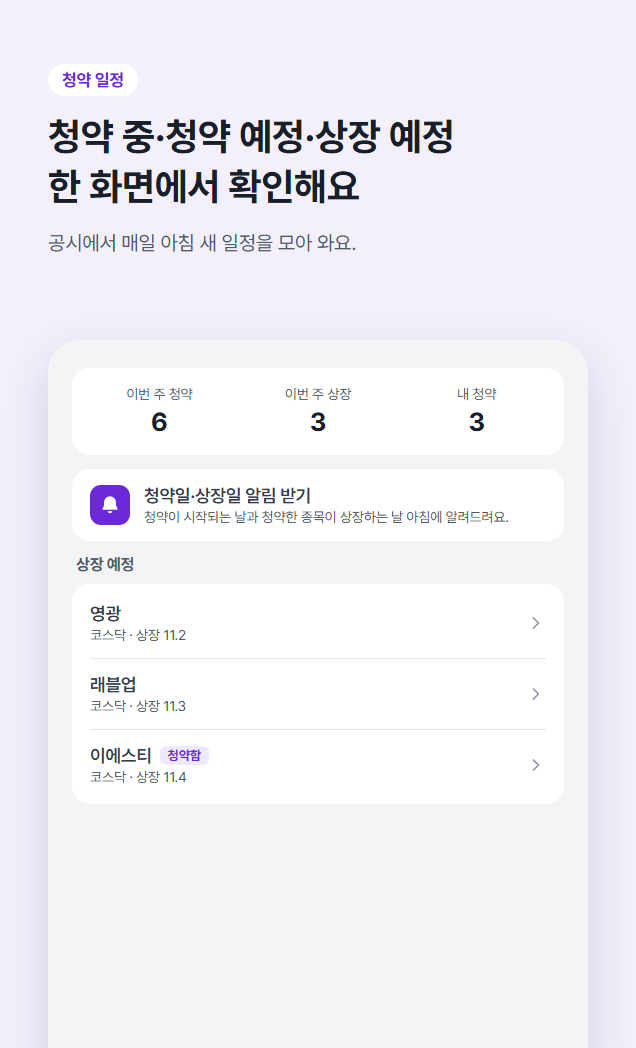
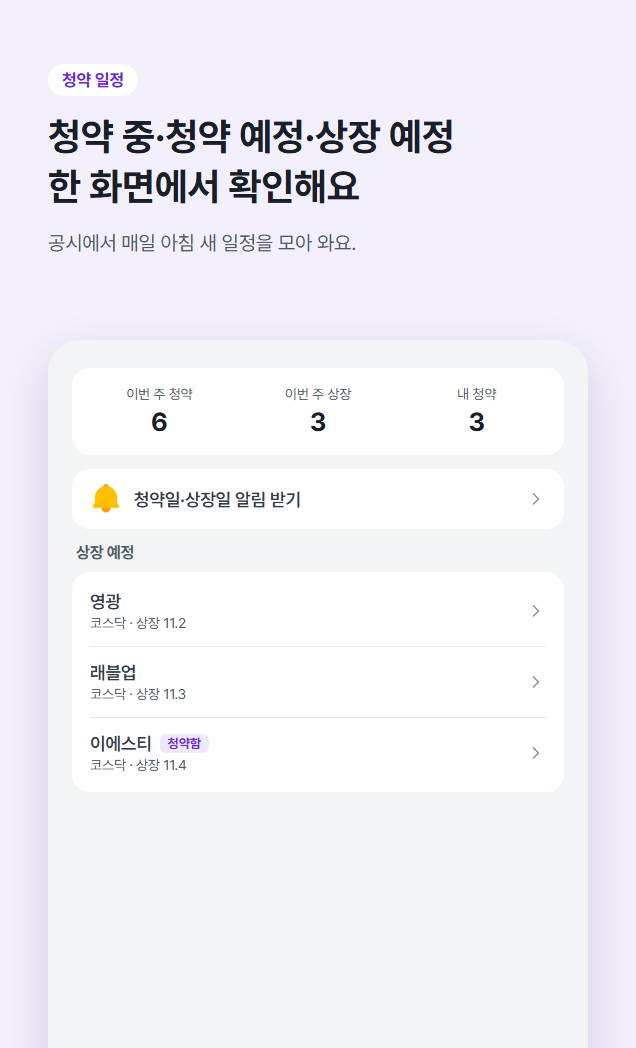
알림 받기 박스: Tossface 종 이모지(흔들림 애니메이션), 설명 줄 삭제, 높이 축소 + 스크린샷 4번 갱신

Changed region(s): [[0.1195, 0.458, 0.8066, 0.7634]]

diff --git a/assets/src/screenshots.html b/assets/src/screenshots.html
@@ -9,6 +9,7 @@
 <head>
 <meta charset="utf-8" />
 <link rel="stylesheet" href="https://cdn.jsdelivr.net/gh/orioncactus/pretendard@v1.3.9/dist/web/static/pretendard.min.css" />
+<link rel="stylesheet" href="https://cdn.jsdelivr.net/gh/toss/tossface/dist/tossface.css" />
 <style>
   :root {
     --brand: #6d28d9;
@@ -77,8 +78,8 @@
   .stats { display: grid; grid-template-columns: repeat(3, 1fr); background: #fff; border-radius: 18px; padding: 18px 8px; margin-bottom: 14px; text-align: center; }
   .stats dt { font-size: 14px; color: var(--subtle); }
   .stats dd { margin: 4px 0 0; font-size: 26px; font-weight: 700; }
-  .alert-row { display: flex; align-items: center; gap: 14px; background: #fff; border-radius: 18px; padding: 16px 18px; margin-bottom: 14px; }
-  .alert-row .app-icon { width: 40px; height: 40px; }
+  .alert-row { display: flex; align-items: center; gap: 12px; background: #fff; border-radius: 18px; padding: 12px 18px; min-height: 60px; margin-bottom: 14px; }
+  .tf { font-family: 'Tossface', sans-serif; }
 
   .info { display: grid; grid-template-columns: 1fr 1fr; gap: 0; background: #fff; border-radius: 18px; padding: 6px 18px; margin-bottom: 14px; }
   .info div { padding: 14px 0; border-bottom: 1px solid var(--line); }
@@ -188,8 +189,9 @@
       <div><dt>내 청약</dt><dd>3</dd></div>
     </dl>
     <div class="alert-row">
-      <div class="app-icon"><svg style="color:#fff;width:22px;height:22px"><use href="#bell"/></svg></div>
-      <div style="flex:1"><div class="r-title">청약일·상장일 알림 받기</div><div class="r-meta">청약이 시작되는 날과 청약한 종목이 상장하는 날 아침에 알려드려요.</div></div>
+      <span class="tf" style="font-size:28px;line-height:1">🔔</span>
+      <div style="flex:1"><div class="r-title">청약일·상장일 알림 받기</div></div>
+      <svg class="chev"><use href="#chev"/></svg>
     </div>
     <p class="sec">상장 예정</p>
     <div class="card">

diff --git a/src/screens.css b/src/screens.css
@@ -418,3 +418,34 @@ button.card.row {
   background: var(--color-bg-strong);
   color: var(--color-text-default);
 }
+
+.alert-emoji {
+  flex-shrink: 0;
+  font-size: 28px;
+  line-height: 1;
+}
+
+/* 종이 잠깐 흔들리고 쉬기를 반복한다 */
+.alert-emoji {
+  transform-origin: 50% 10%;
+  animation: bell-ring 2.4s ease-in-out infinite;
+}
+
+@keyframes bell-ring {
+  0%, 40%, 100% { transform: rotate(0); }
+  5% { transform: rotate(16deg); }
+  12% { transform: rotate(-14deg); }
+  19% { transform: rotate(10deg); }
+  26% { transform: rotate(-6deg); }
+  33% { transform: rotate(3deg); }
+}
+
+@media (prefers-reduced-motion: reduce) {
+  .alert-emoji { animation: none; }
+}
+
+/* 한 줄짜리 행 — 터치 영역 44px 이상은 유지한다 */
+.row-compact {
+  min-height: 52px;
+  padding: var(--space-2) 0;
+}

diff --git a/src/pages/SchedulePage.tsx b/src/pages/SchedulePage.tsx
@@ -54,10 +54,12 @@ export function SchedulePage({ ipos, subscribed, expanded, showAlertsCta, onEnab
       {showAlertsCta && (
         <ul className="card list">
           <li>
-            <button type="button" className="row" onClick={onEnableAlerts}>
+            <button type="button" className="row row-compact" onClick={onEnableAlerts}>
+              <span className="tf alert-emoji" aria-hidden="true">
+                🔔
+              </span>
               <span className="row-main">
                 <span className="row-title">청약일·상장일 알림 받기</span>
-                <span className="row-meta">청약이 시작되는 날과 청약한 종목이 상장하는 날 아침에 알려드려요.</span>
               </span>
               <ChevronRight size={20} />
             </button>
